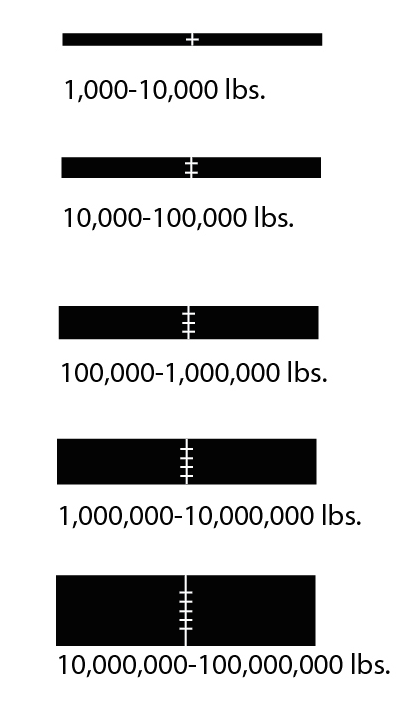
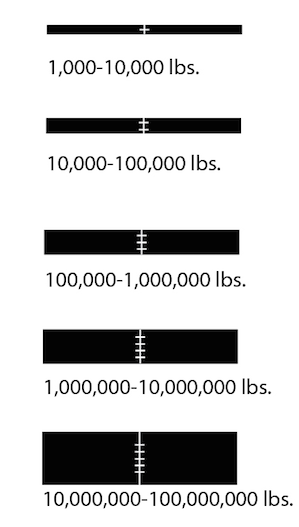
add cottonseed-exports

diff --git a/src/maps/CottonseedExports/index.js b/src/maps/CottonseedExports/index.js
@@ -1,0 +1,101 @@
+import React from 'react'
+import { Link } from 'react-router-dom'
+import BaseTimelineSliderMap from '../BaseTimelineSliderMap'
+
+import timeline from './timeline.json'
+
+class CottonseedExports extends BaseTimelineSliderMap {
+  getTimeline () {
+    return timeline
+  }
+
+  render () {
+    const data = this.getCurrentData()
+
+    if (data === null) {
+      return null
+    }
+
+    return (
+      <article>
+        <div className="container-fluid row" key="map-container">
+          <div className="col-xs-10 map">
+            <img src={`/img/${data.map}`} />
+          </div>
+
+          <div className="col-xs-2 map-legend-container">
+            <img src="/img/cottonseed_oil_exports_legend.png" />
+          </div>
+        </div>
+
+        <div className="container-fluid row" key="timeline-container">
+          {this.renderTimelineSlider()}
+        </div>
+
+        <div className="container-fluid row" key="notes">
+          <p>
+            These maps show the export flow of cottonseed oil from U.S. ports
+            to the world from 1880 to 1900. Overall, the trade grew from two
+            export cities in 1880 (New York and New Orleans) to nine in 1900
+            and from six global regional destinations to nine. That was an
+            increase from 8 million to over 260 million pounds. The largest
+            export stream went to Southern Europe across all twenty years
+            (principally Italy and southern France). By 1900, northern
+            European nations (The Netherlands, Belgium, and the UK) played
+            a bigger part in the trade. Note that trade records show the
+            British holding of Gibraltar in 1880 and 1890, but then
+            directly to the UK in 1900.
+          </p>
+
+          <p>
+            The width of the arrows represents the quantity of oil from tens
+            of thousands to hundreds of millions of pounds. Because the
+            specific locations (export locations) from trade records were too
+            numerous to include with individual arrows, the maps show regional
+            flows rather than specific national ones. Also note that
+            inconsistency in record keeping leads to inconsistent labels for
+            the export locations. Thus, some are continents, some are regions,
+            and some are nations. We have sought to provide as much consistency
+            as possible across the range of maps. Full data sets of the flow
+            paths listing individual nations and quantities are
+            <Link to="/notes">here</Link>.
+          </p>
+
+          <ol id="notes">
+            <li>
+              Because trade records provide a wide range of quantities per year,
+              for the sake of reader legibility the maps represent proportions.
+              For example, an arrow five-hatch-marks wide is five orders of
+              magnitude greater than an arrow with one hatch mark, while the width
+              of the five-hatch arrow is five times the width of the one-hatch
+              arrow. Readers can thus view the maps to gain a sense of growth in
+              export markets, relative quantities to various parts of the world,
+              and sense of scale in the global marketplace for supposed adulterants.
+            </li>
+
+            <li>
+              The maps derive from government trade statistics that listed departure
+              ports (export locations) and final destinations (import locations),
+              but not together. For instance, while we know manufacturers shipped
+              x pounds of cottonseed oil from New York in 1890, we do not know where,
+              specifically, that specific quantity ended up. Therefore, the maps show
+              the commodities shipped from each individual American port to meet in
+              the middle of the Atlantic before dispersing to final destinations.
+            </li>
+
+            <li>
+              The government statistics used to generate these maps documented
+              foreign imports by country. Thus, in creating the maps the
+              countries were aggregated into regions such as Northern Europe,
+              Southern Europe, South America, Central America, Africa, and Asia.
+              On the export side, various cities were aggregated into regions
+              based on geographical proximity.
+            </li>
+          </ol>
+        </div>
+      </article>
+    )
+  }
+}
+
+export default CottonseedExports

diff --git a/src/maps/index.js b/src/maps/index.js
@@ -2,6 +2,7 @@ import ParafsItinerary from './ParafsItinerary'
 import MargarineLegislation from './MargarineLegislation'
 import MargarineProduction from './MargarineProduction'
 import CottonseedProduction from './CottonseedProduction'
+import CottonseedExports from './CottonseedExports'
 
 export default [
   {
@@ -24,10 +25,11 @@ export default [
     title: 'Cottonseed Oil Production',
     component: CottonseedProduction,
   },
-  // {
-  //   url: '/cottonseed-exports',
-  //   title: 'Cottonseed Oil Exports',
-  // },
+  {
+    url: '/cottonseed-exports',
+    title: 'Cottonseed Oil Exports',
+    component: CottonseedExports,
+  },
   // {
   //   url: '/glucose-exports',
   //   title: 'Glucose Exports',
